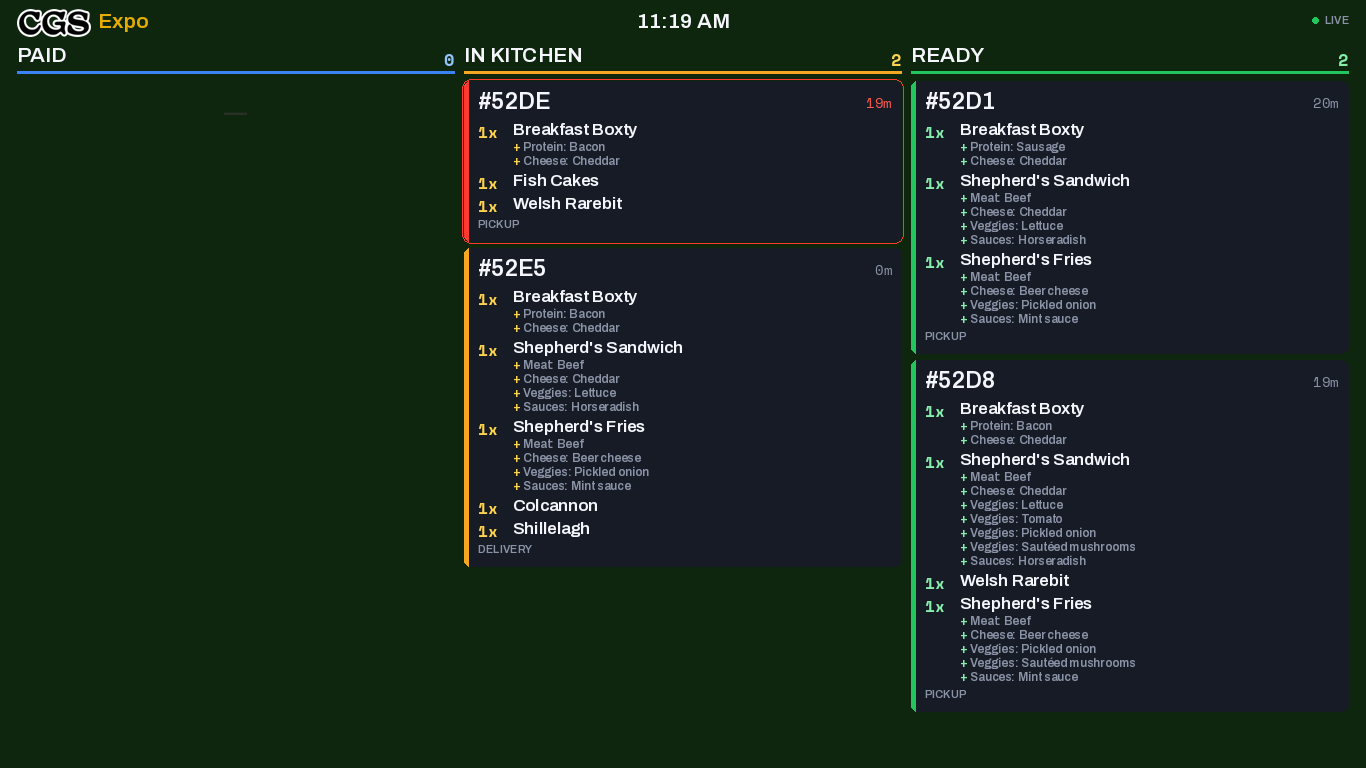
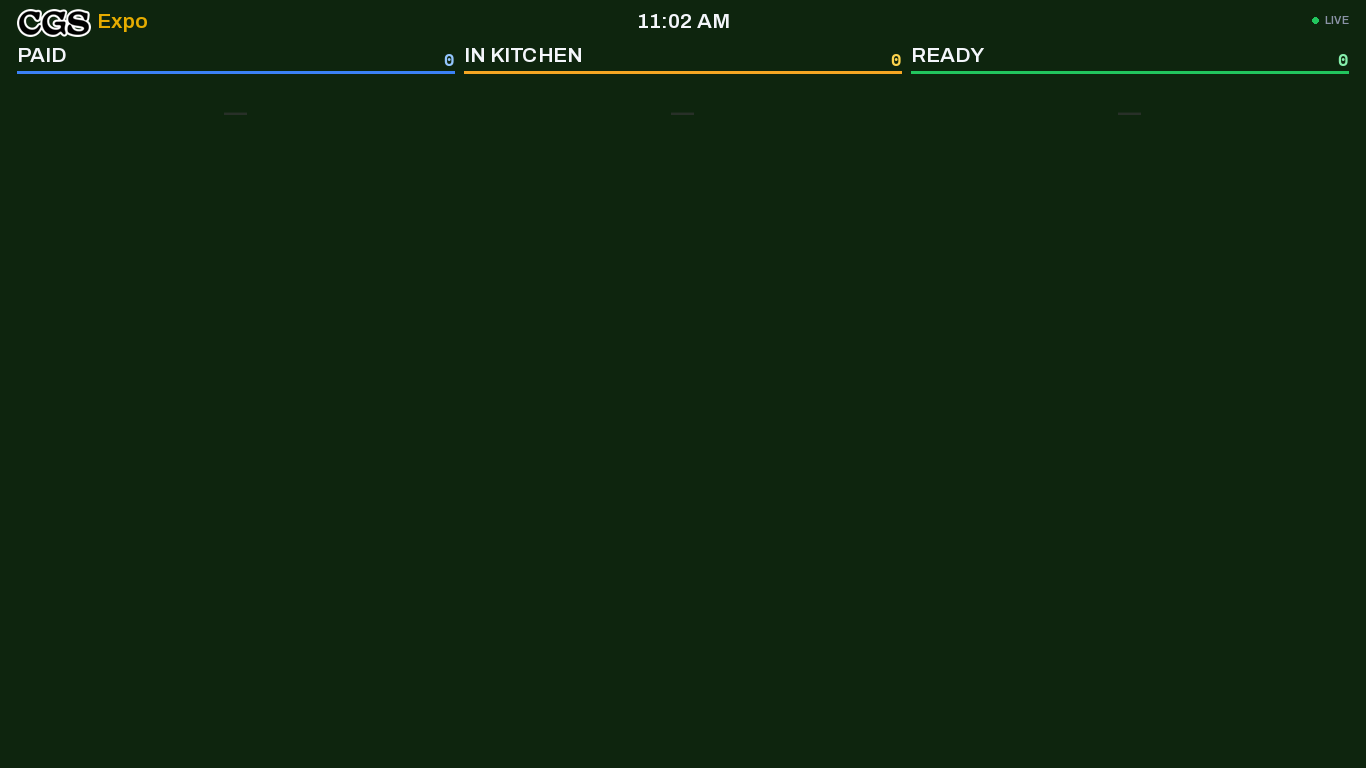
Catch up

diff --git a/expo_board.py b/expo_board.py
@@ -235,7 +235,7 @@ class ExpoBoard:
         if self.logo:
             # RGBA paste needs the alpha channel as the mask
             img.paste(self.logo, (bx, by), self.logo)
-            bx += self.logo.width + int(10 * s)
+            bx += self.logo.width + int(8 * s)
         d.text((bx, by), "Expo", font=self.f_brand, fill=BRAND)
         clock = time.strftime("%-I:%M %p", time.localtime(now_ts))
         d.text((self.w // 2 - self._tw(d, self.f_brand, clock) // 2, int(12 * s)),